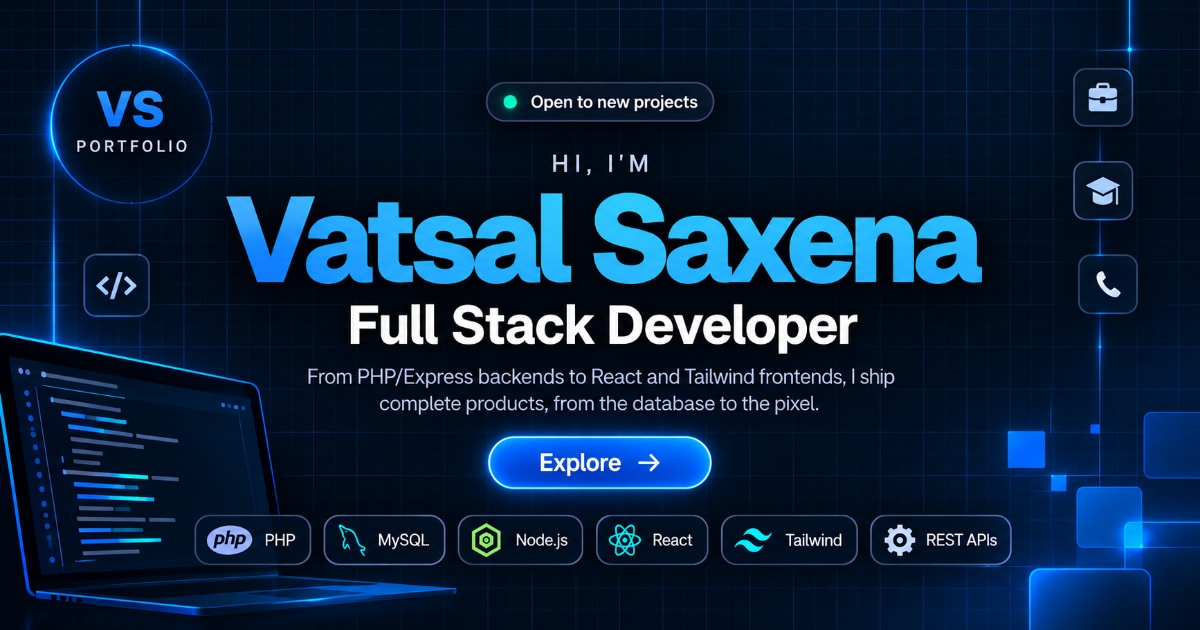
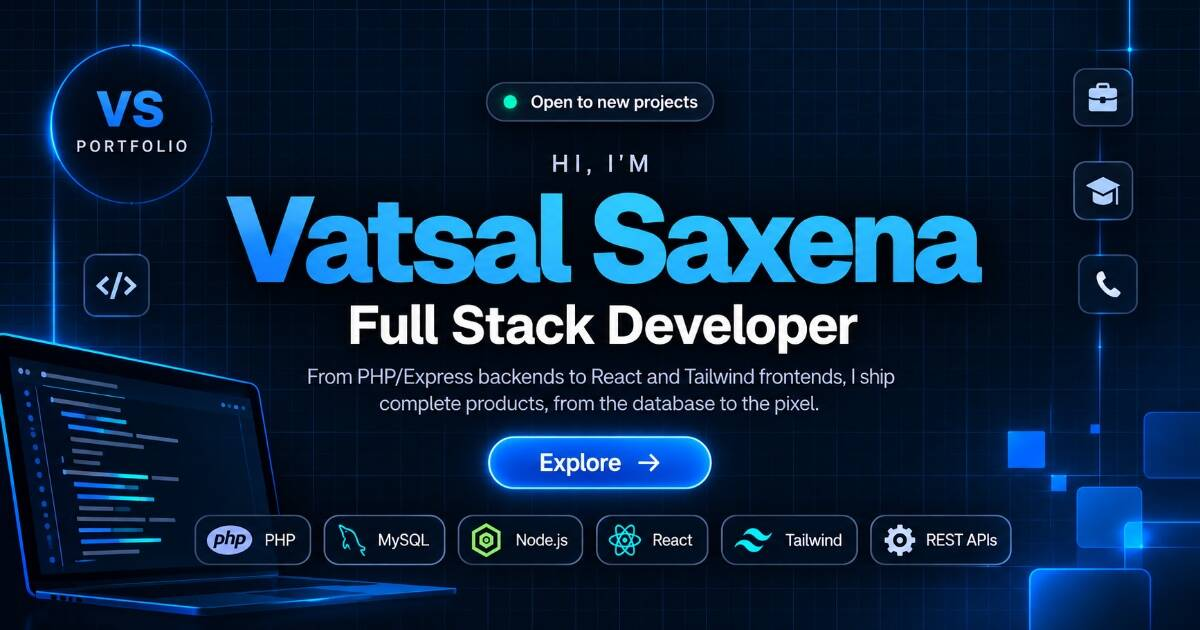
Updated Open Graph metadata and images for improved SEO and social sharing

diff --git a/index.html b/index.html
@@ -24,25 +24,31 @@
     <meta name="theme-color" content="#070b14" />
     <meta name="color-scheme" content="dark" />
 
-    <!-- Open Graph (LinkedIn, WhatsApp, Facebook, Slack) -->
+    <!-- Open Graph -->
     <meta property="og:type" content="website" />
     <meta property="og:site_name" content="Vatsal Saxena" />
     <meta property="og:locale" content="en_IN" />
+
     <meta property="og:url" content="https://vatsalsaxena22.github.io/" />
     <meta property="og:title" content="Vatsal Saxena | Full Stack Developer" />
     <meta
       property="og:description"
-      content="Scalable backends, fast interfaces and complete products, from database to pixel. See my projects, skills and experience."
+      content="Full Stack Developer building scalable backends, responsive interfaces, APIs and complete web applications."
     />
     <meta
       property="og:image"
       content="https://vatsalsaxena22.github.io/images/og.jpg"
     />
+    <meta
+      property="og:image:secure_url"
+      content="https://vatsalsaxena22.github.io/images/og.jpg"
+    />
+    <meta property="og:image:type" content="image/jpeg" />
     <meta property="og:image:width" content="1200" />
     <meta property="og:image:height" content="630" />
     <meta
       property="og:image:alt"
-      content="Vatsal Saxena, Full Stack Developer portfolio"
+      content="Vatsal Saxena | Full Stack Developer Portfolio"
     />
 
     <!-- Twitter / X -->
